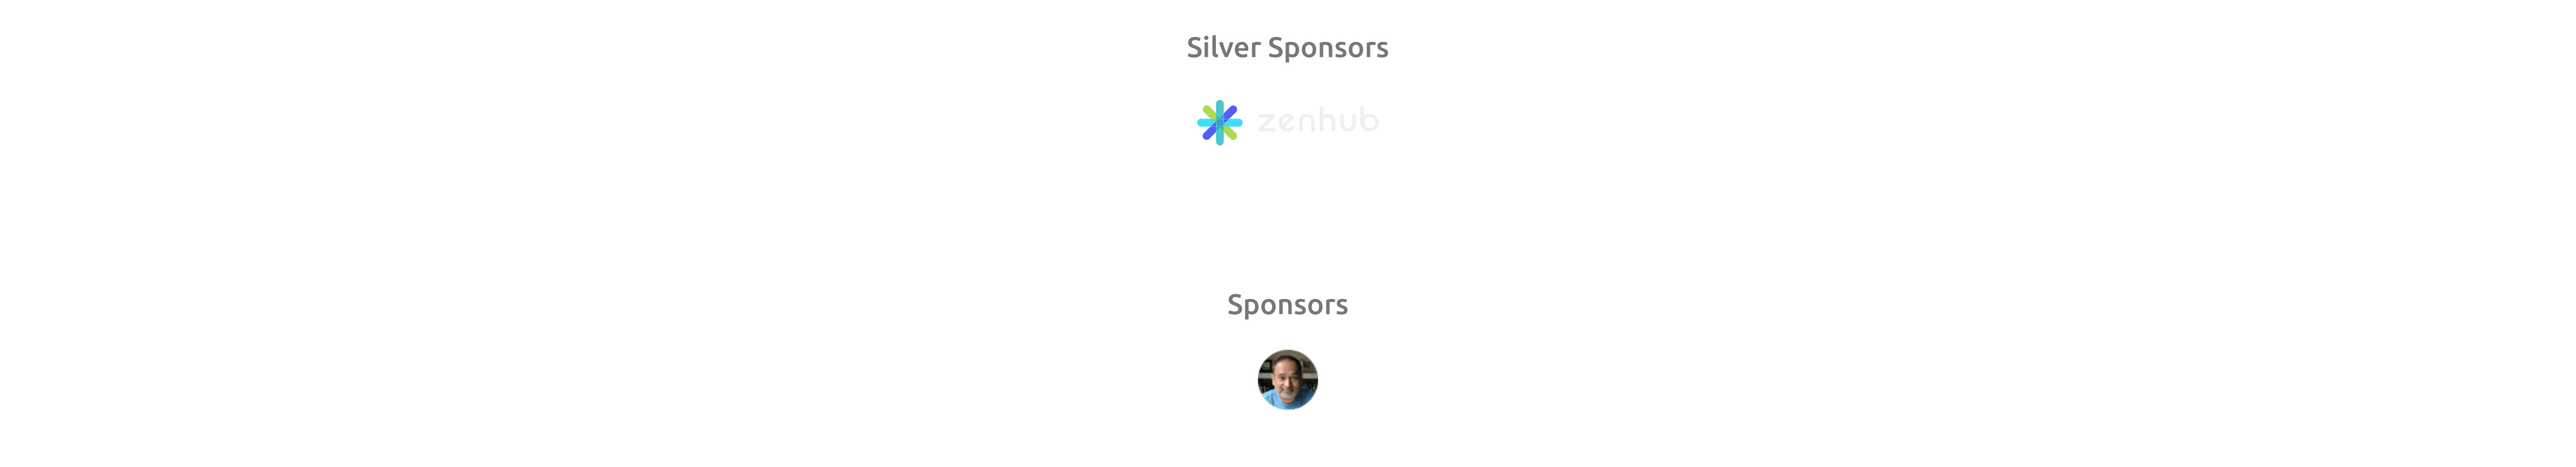
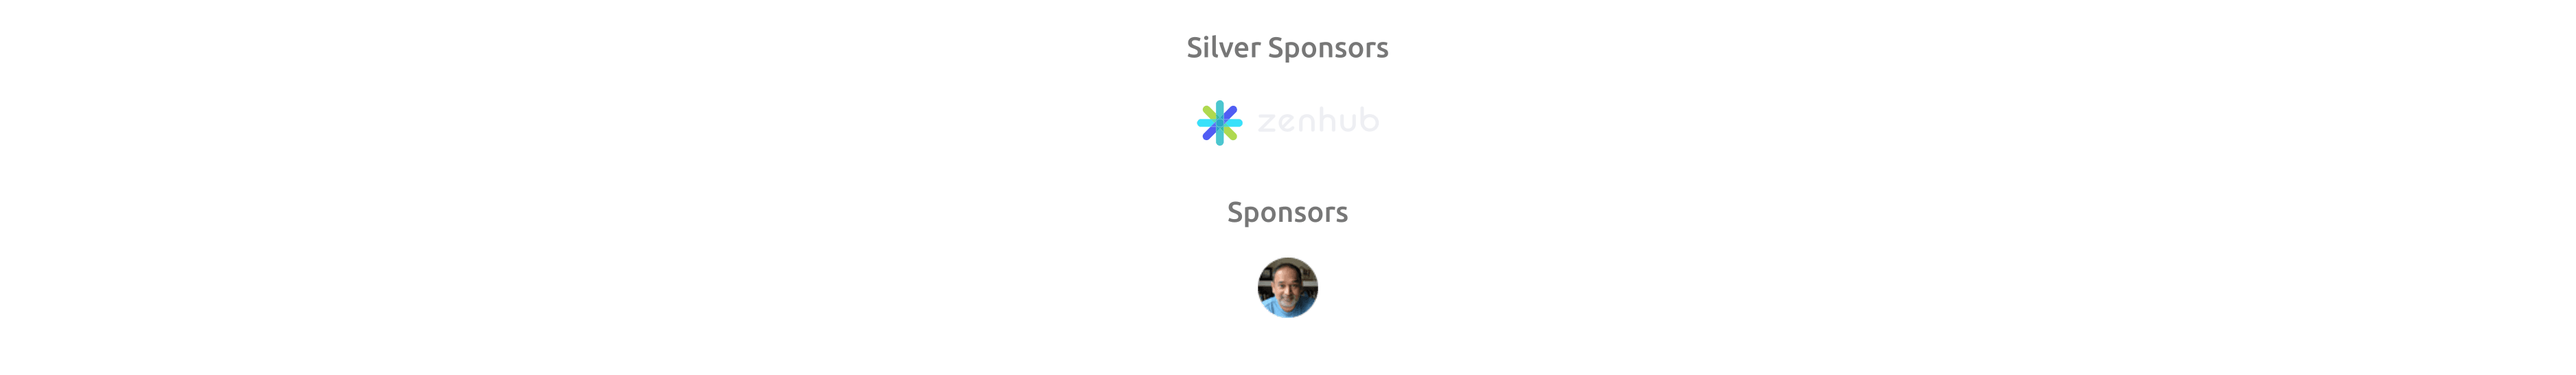
chore: update sponsors.svg

diff --git a/sponsor.config.ts b/sponsor.config.ts
@@ -56,7 +56,7 @@ export default defineConfig({
           .addText('Silver Sponsors', 'sponsorkit-tier-title')
           .addSpan(10)
           .addRaw(ZENHUB_LOGO(config.width!, compose.height))
-          .addSpan(130)
+          .addSpan(65)
       }
     },
     {
